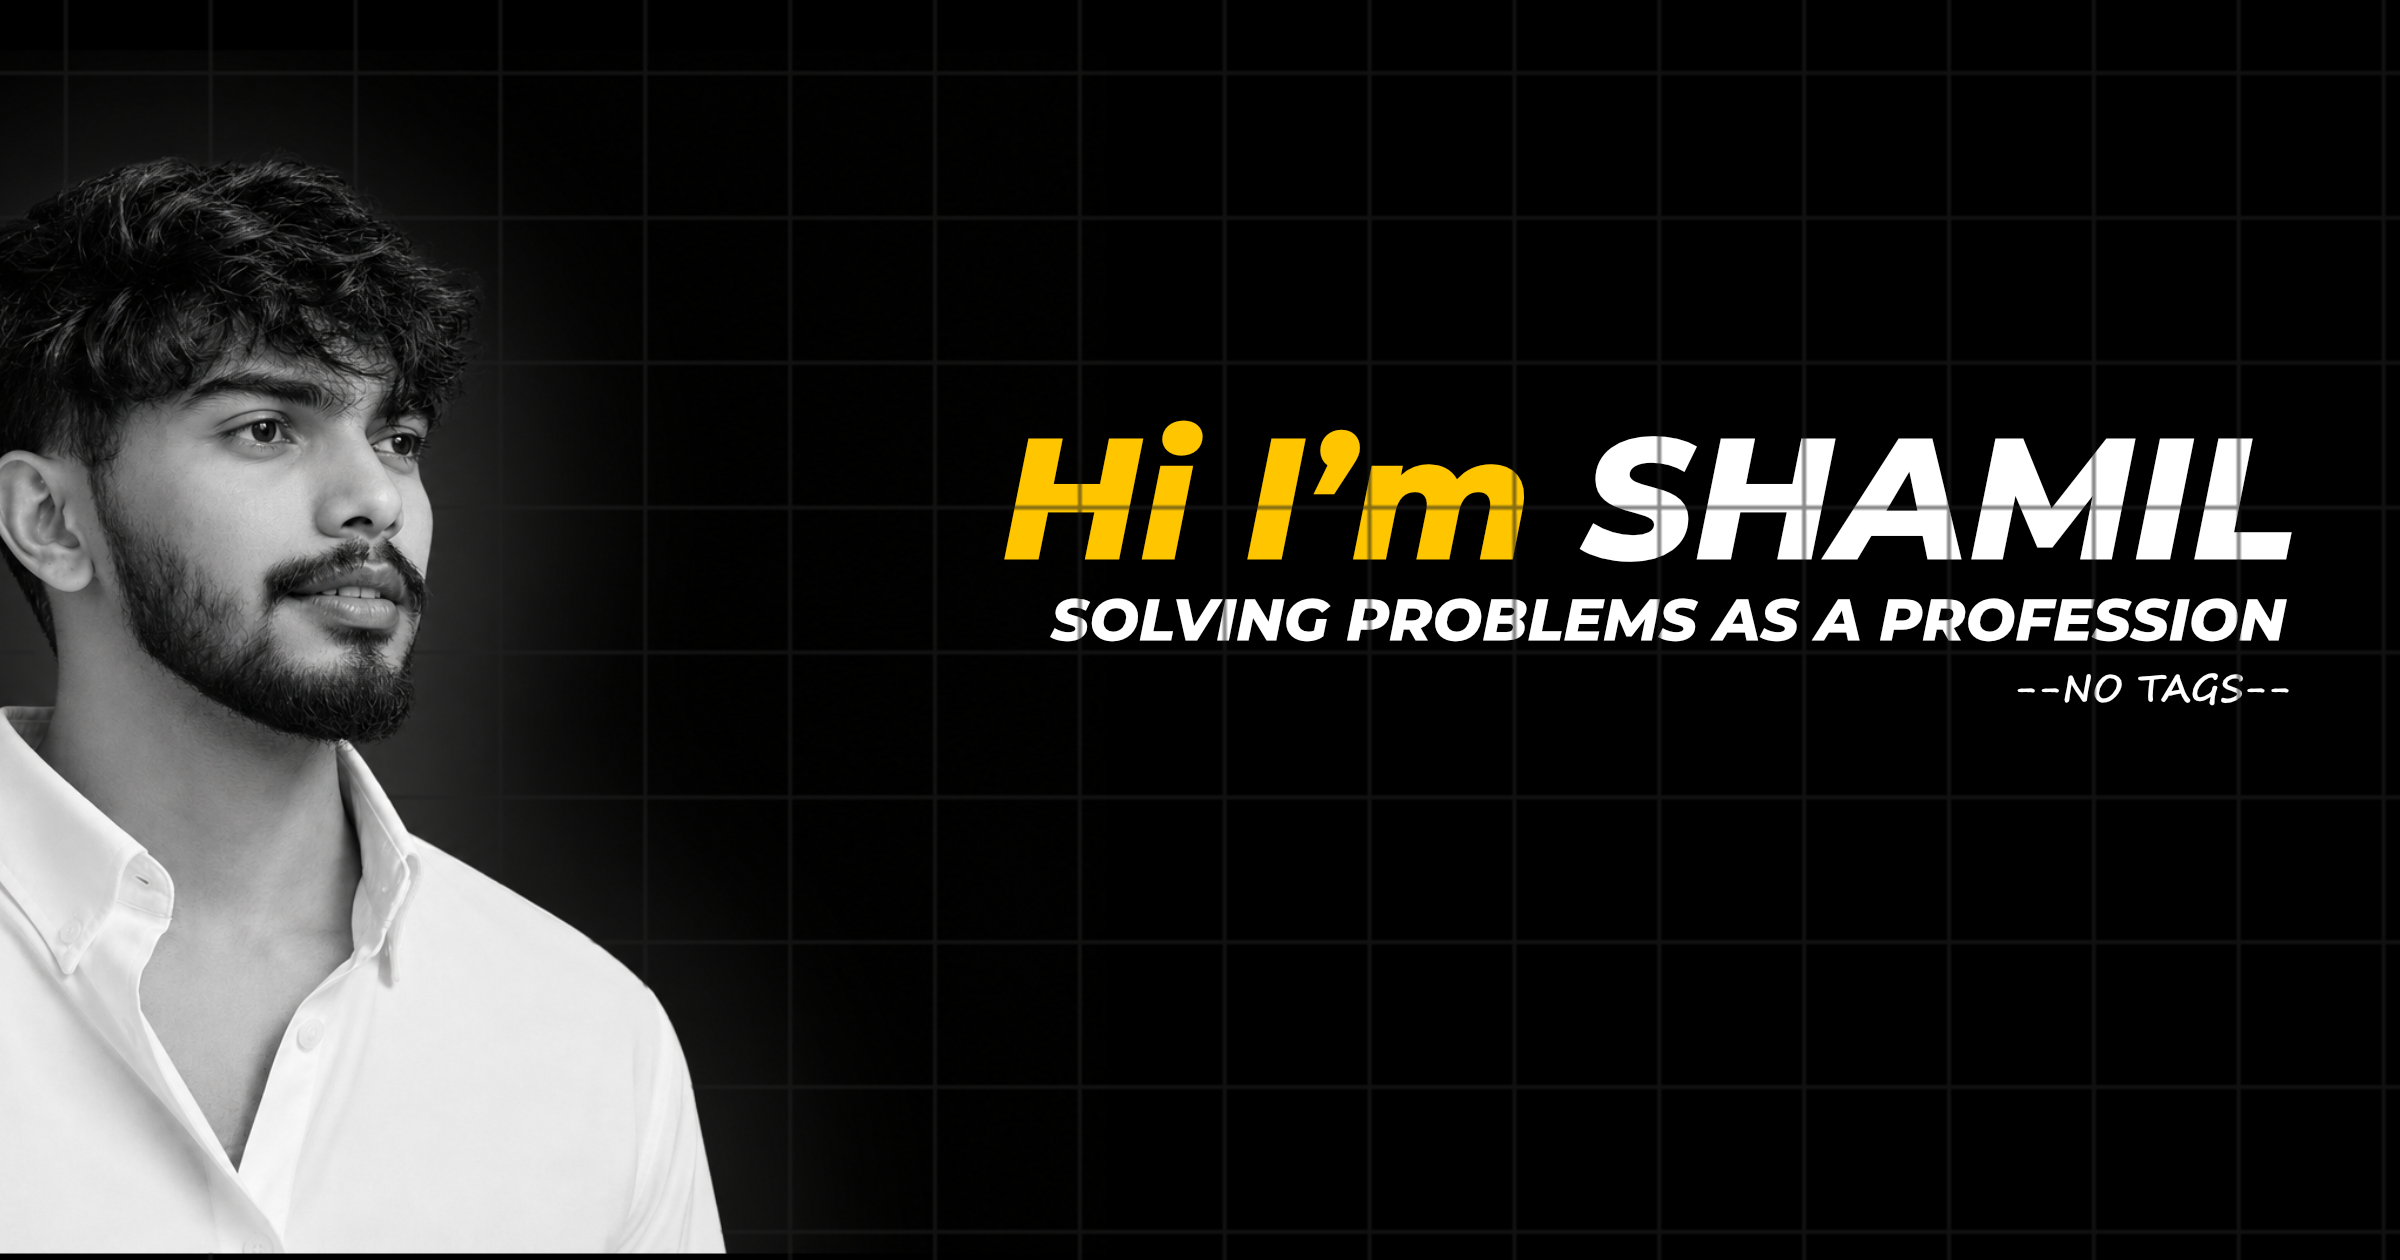
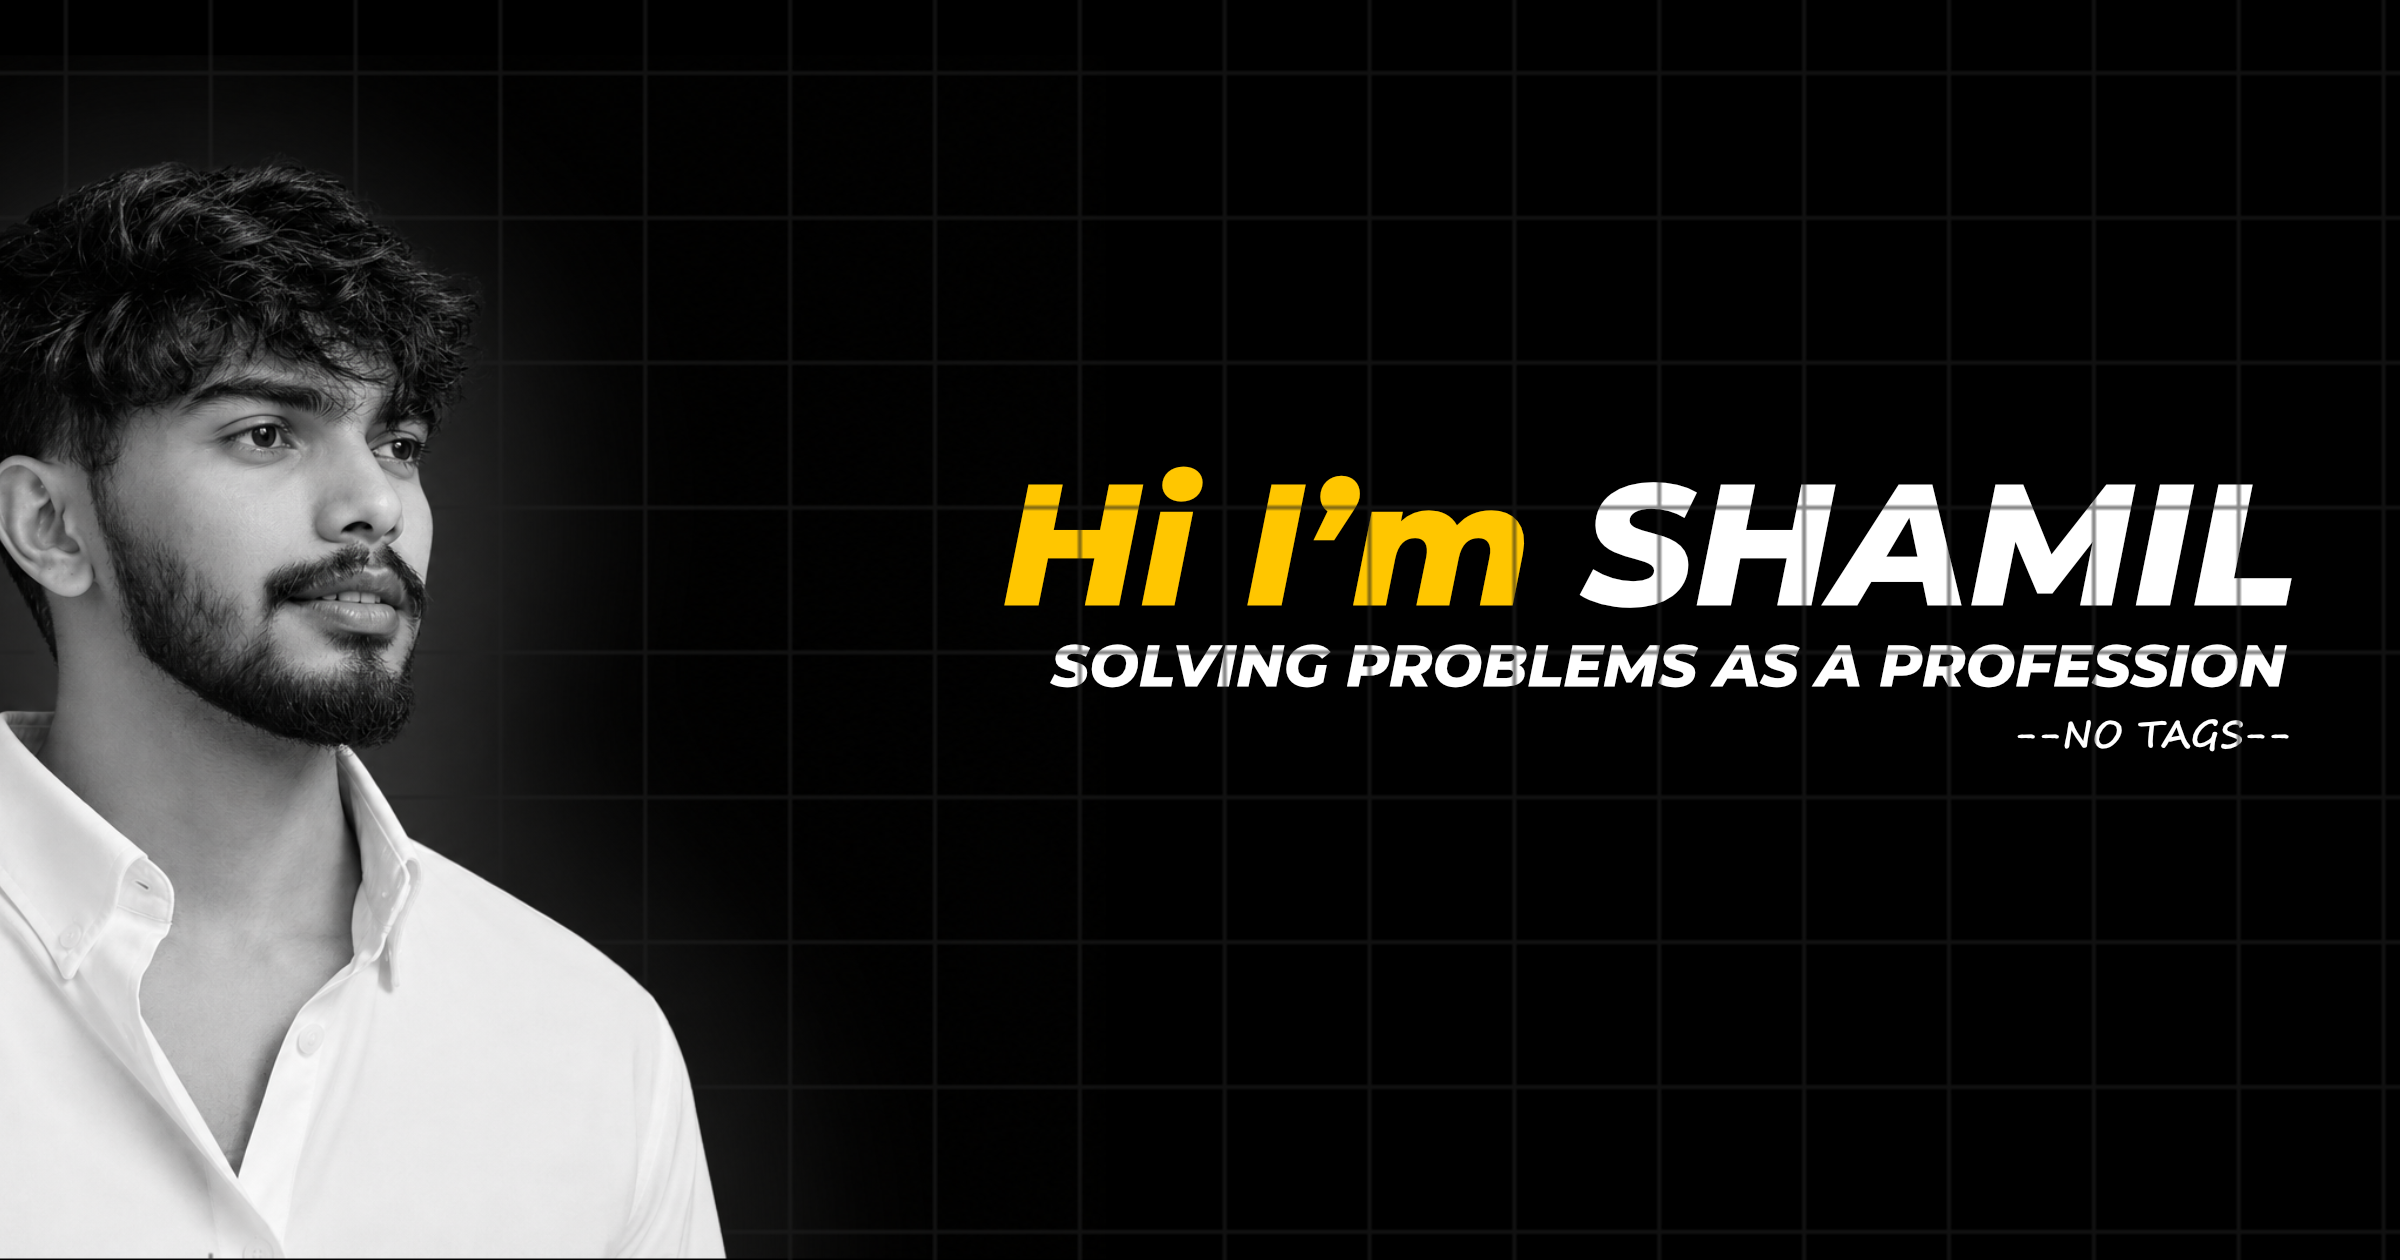
Update site metadata: refine site title and description for clarity, and replace Open Graph image asset.

diff --git a/lib/links.ts b/lib/links.ts
@@ -1,7 +1,8 @@
 export const siteUrl = "https://shamilkotta.com";
 export const siteName = "shamil";
-export const siteTitle = "Hi I'm SHAMIL";
-export const siteDescription = "Solving problems as a profession. Software engineer building for developers.";
+export const siteTitle = "SHAMIL";
+export const siteDescription =
+  "Solving problems as a profession. Software engineer building for developers.";
 export const ogImage = {
   url: "/shamilkotta.png",
   width: 2400,
